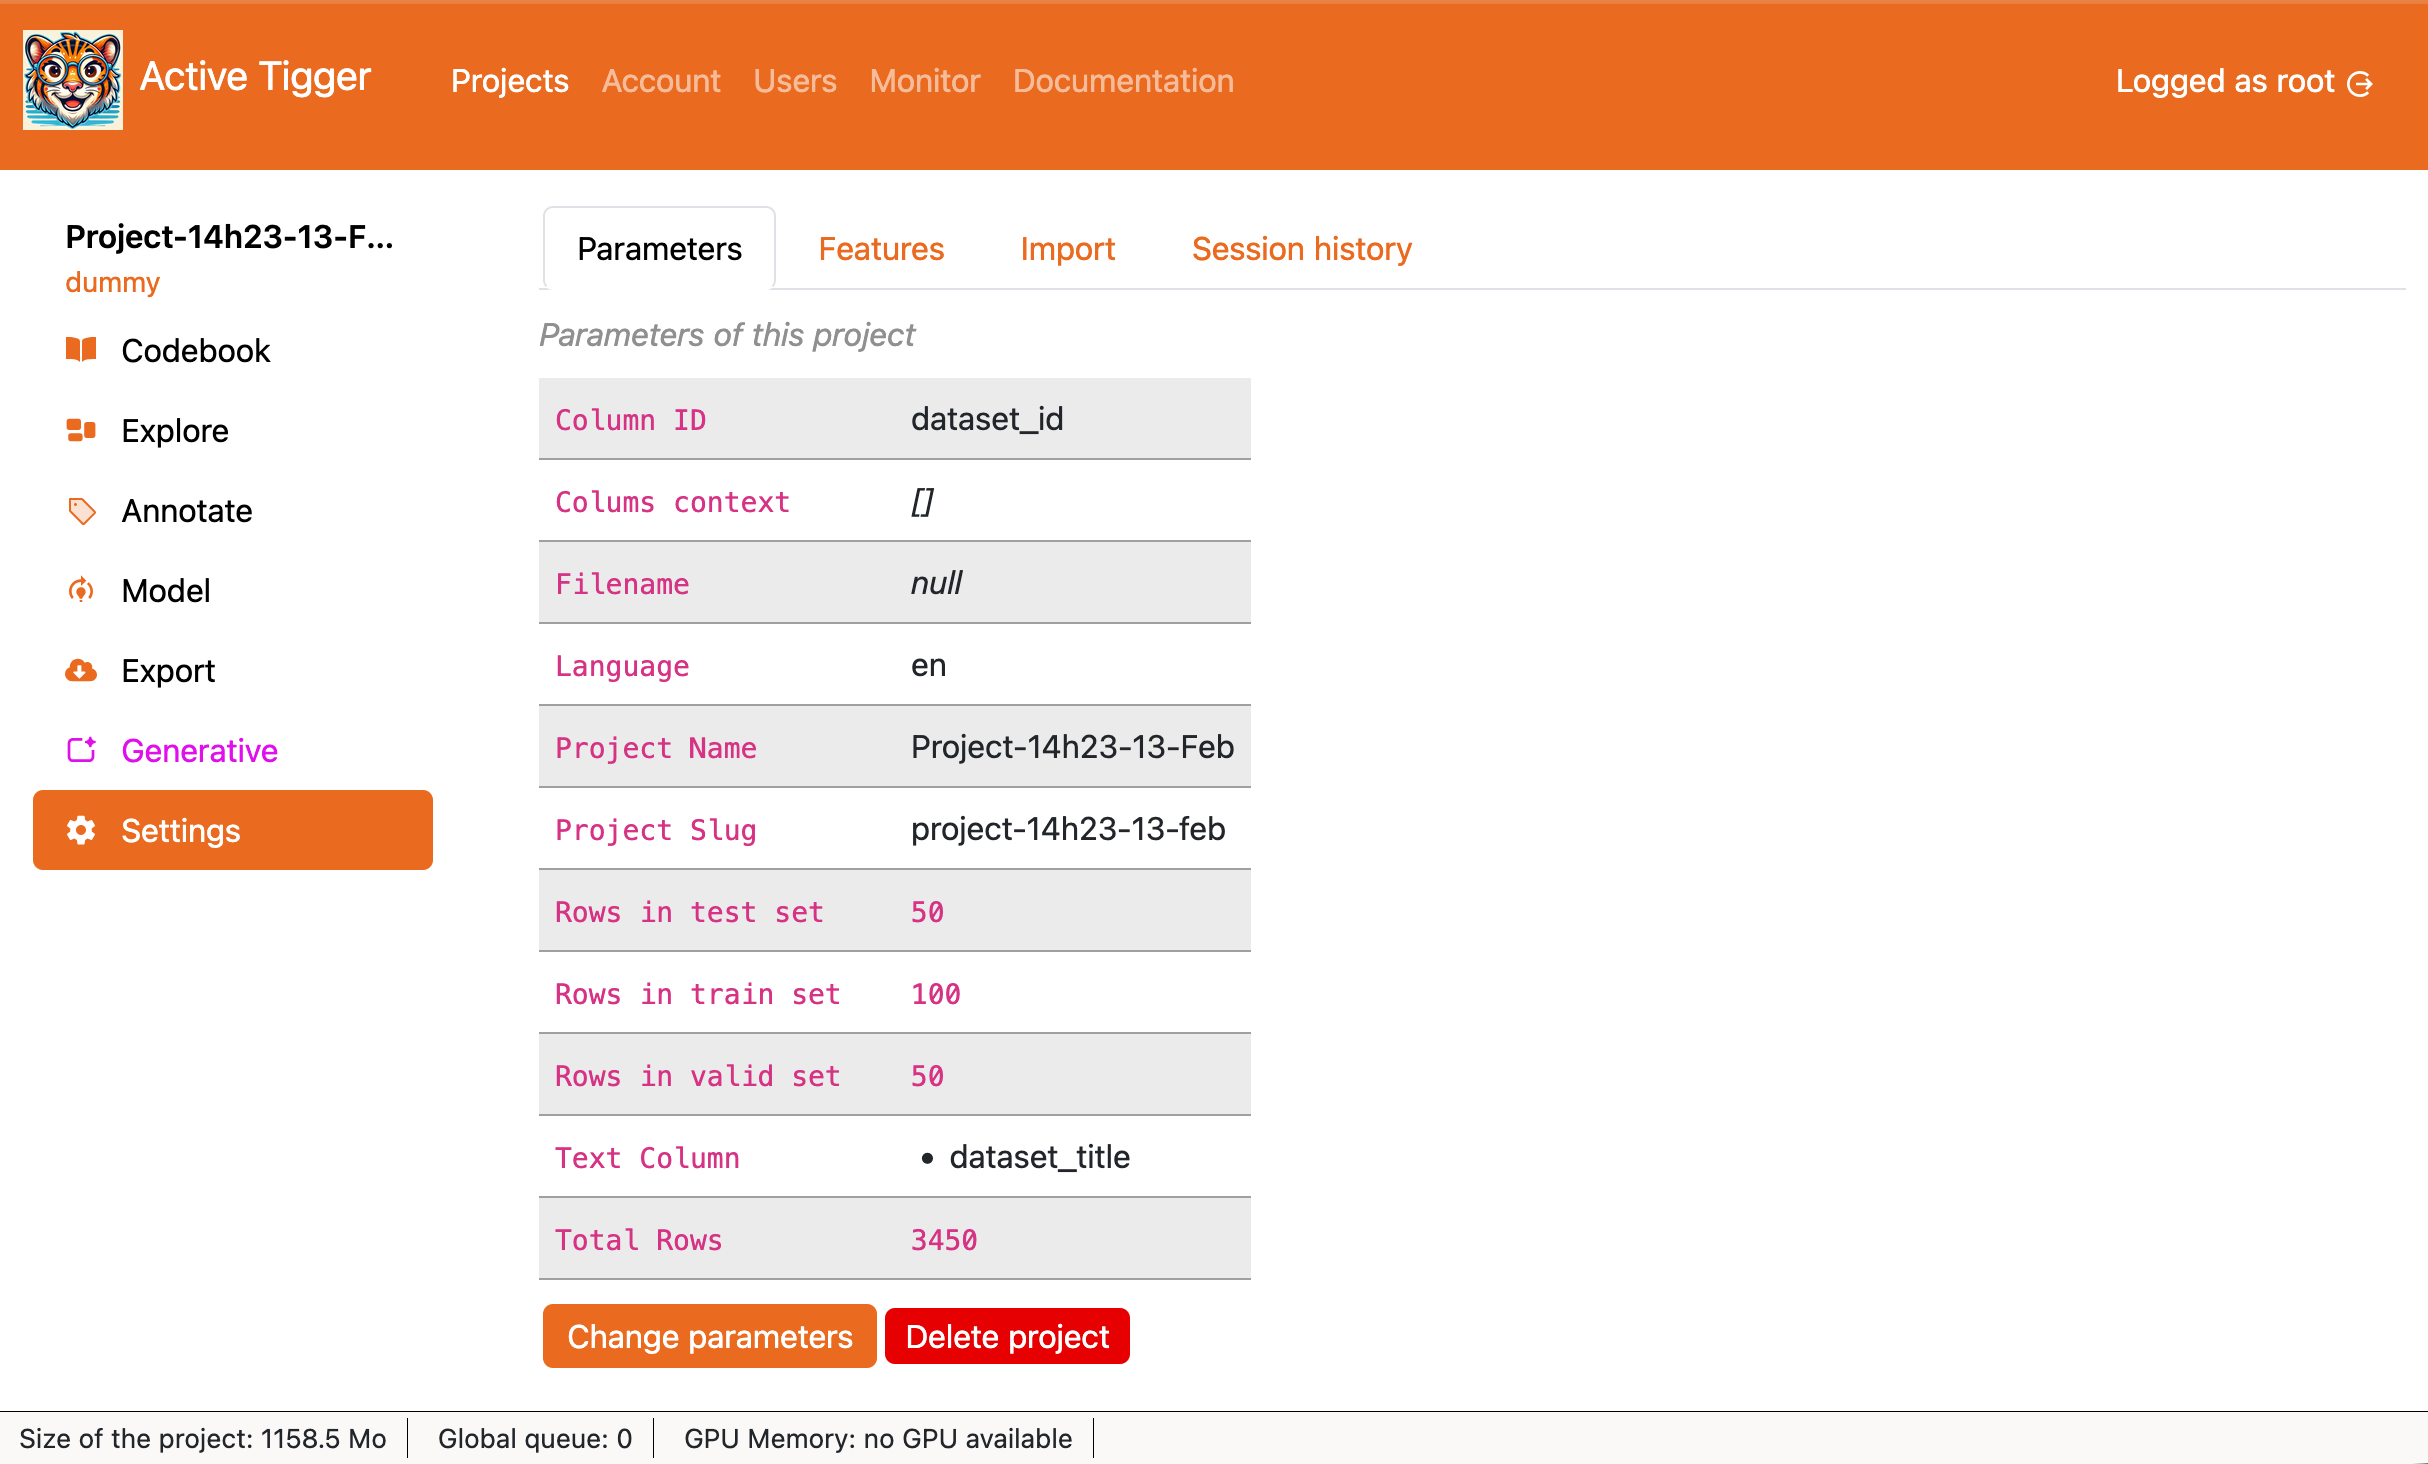
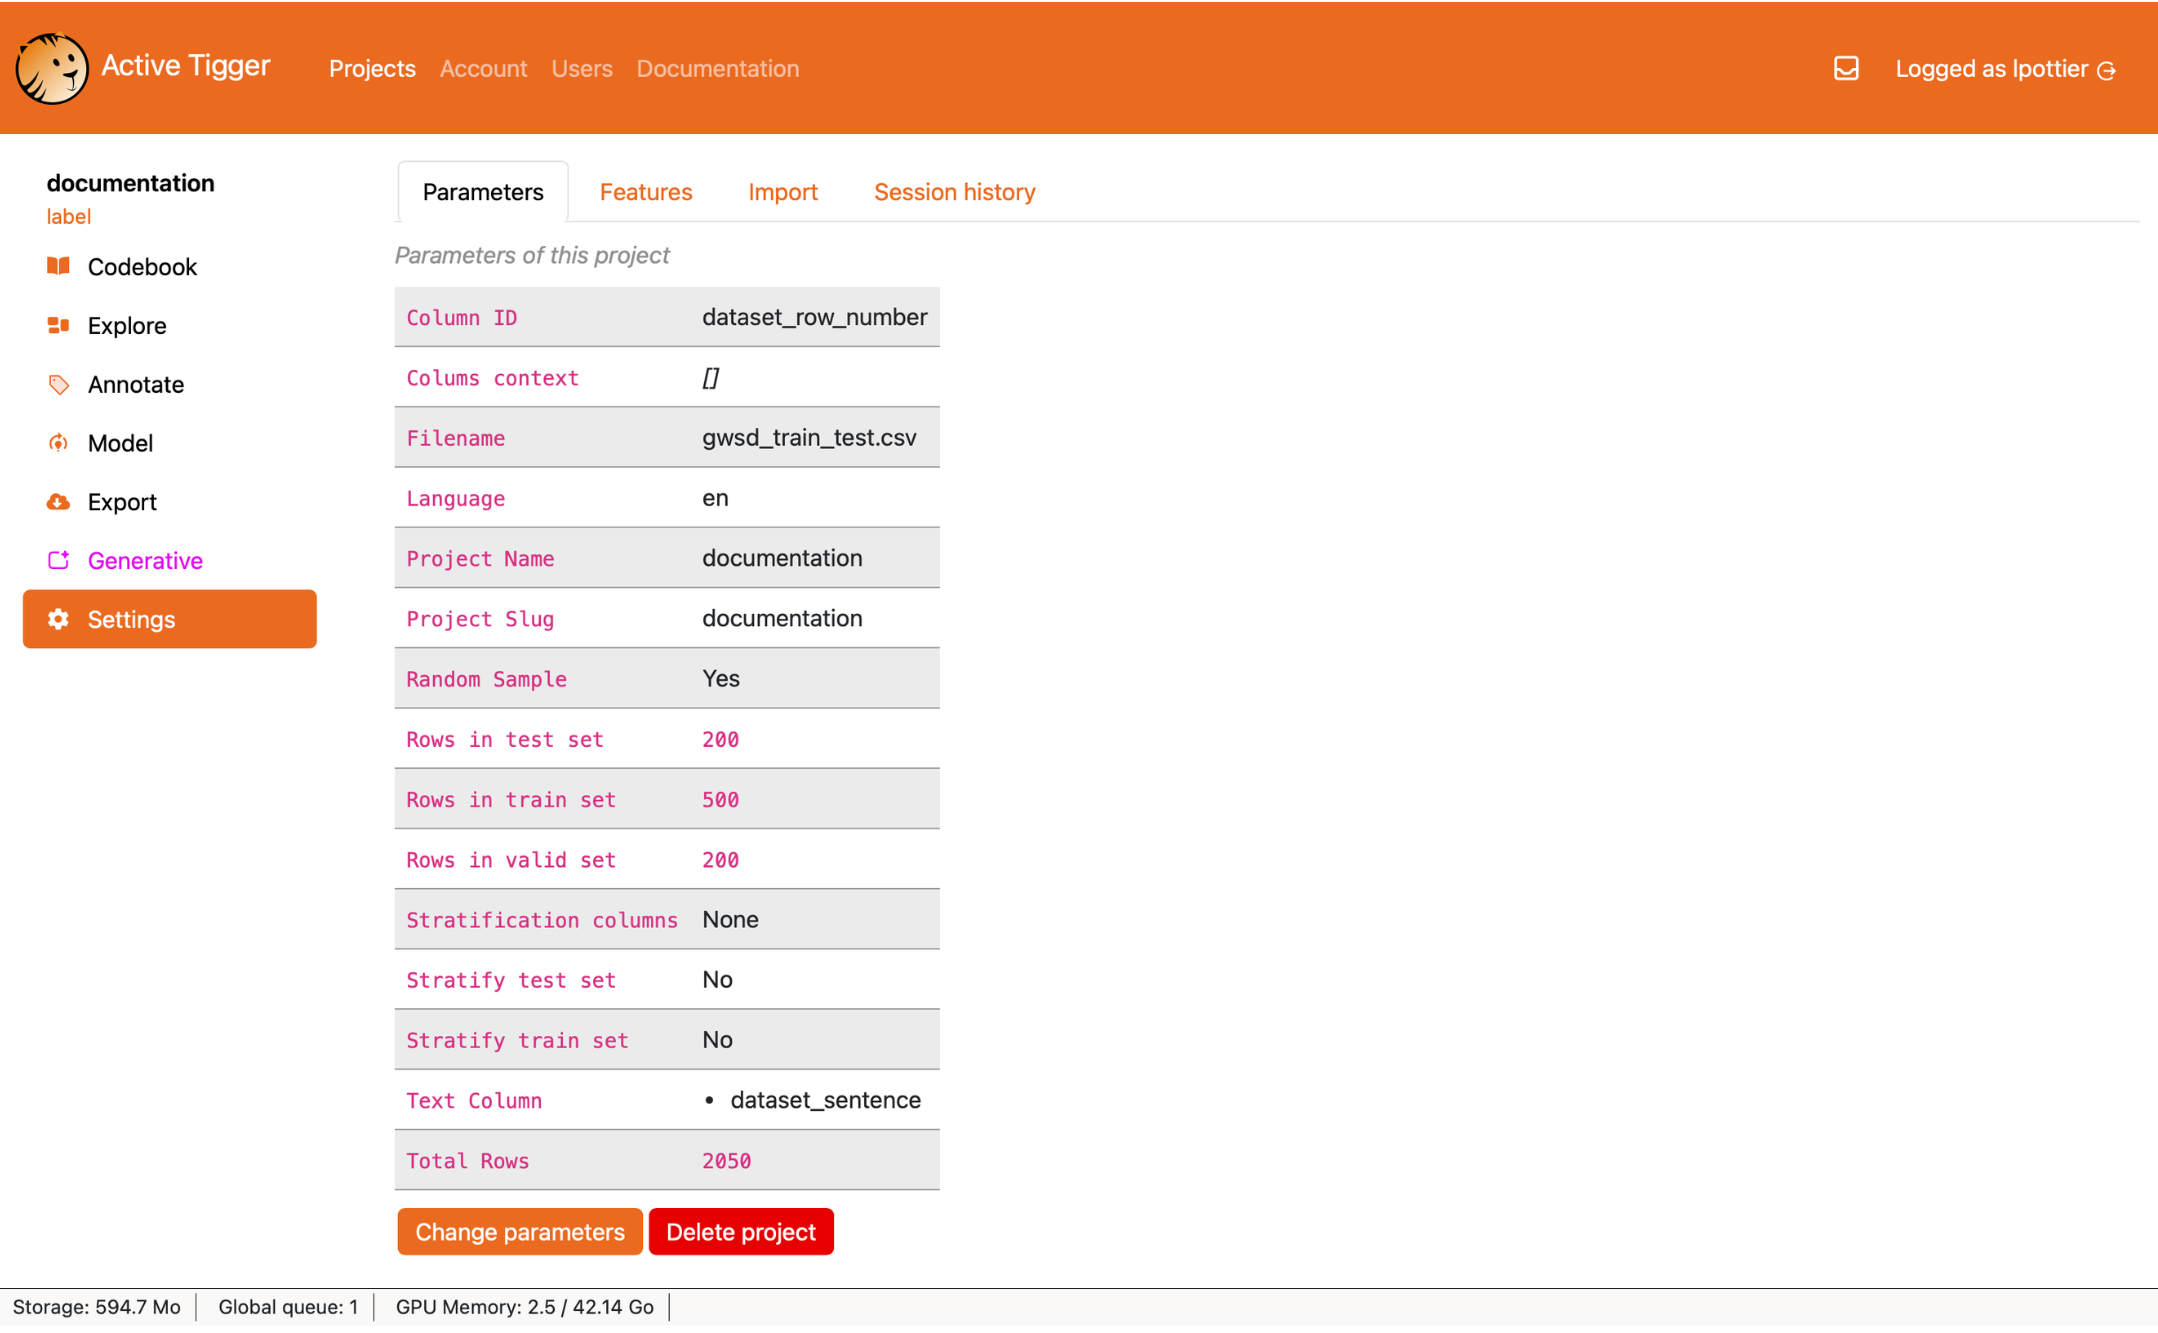
updated settings

diff --git a/docs/functionalities/settings.md b/docs/functionalities/settings.md
@@ -1,10 +1,10 @@
 # Settings page
 
-The settings page contains many tabs with **moderate** to **high impacts** on your project. We describe them on this page.
+The Settings page contains many tabs with **moderate** to **high impacts** on your project. 
 
 ## Parameters
 
-This page displays the parameters of the project and allows editing or deleting the project. For instance, you can *change its name* (but not its id).
+This tab displays the parameters of the project and allows editing of some parameters or deletion of the project. 
 
 ![](../img/functionalities/parameters.png)
 
@@ -14,38 +14,48 @@ This page displays the parameters of the project and allows editing or deleting 
     - <span class="parameter">Language of the corpus</span>: [see Project Creation page](./project-creation.md#primary-parameters)
     - <span class="parameter">Column(s) for contextual information</span>: [see Project Creation page](./project-creation.md#primary-parameters)
     - <span class="parameter">Add N elements in the train set</span>: Pick new elements from the dataset uploaded. *This action ignores stratification*.
-- <span class="action red-danger">Delete project</span> to delete the project, annotations and models. **There is no going back.**
 
 !!! note
     
-    It is not made possible to manage the size of the sets and move elements around. Read more [here](../faq/faq.md#why-cant-i-change-the-size-of-my-sets-on-the-go)
+    It is not possible to directly add elements to the test and validation sets. However, you can drop them and import news ones in the Import tab (learn more [in the FAQ](../faq/faq.md#can-i-add-a-test-set-or-validation-set-after-creating-the-project-if-i-havent-already) and get instructions [below](./settings.md#import)). 
+
+- <span class="action red-danger">Delete project</span> to delete the project, including annotations and models. 
+
+!!! warning
+
+    Deleting the project is **irreversible**. **It cannot be undone**. 
 
 ## Features
 
 Displays the available features and their parameters. 
 
+![](../img/functionalities/features.png)
+
 - <span class="action primary">Add a new feature</span> to compute new features ([more details on the available features modes](../conceptualizing/general.md#representing-texts-with-features)).
-    - if using **embeddings**:
+    - if using **sentence or BERT embeddings**:
         - <span class="parameter">Feature name</span>
-        - <span class="parameter">Model to use</span>
-        - <span class="parameter">Context window size</span>: The number of token per entry. After tokenization each input is truncated/padded to match this size.
+        - <span class="parameter secondary">Model to use</span>
+        - <span class="parameter secondary">Pooling</span> for BERT models: average all token embeddings (mean) or use the CLS token's only. 
+        - <span class="parameter secondary">Max length tokens</span>: the number of token per entry (context window size). After tokenization each input is truncated/padded to match this size.
+        - <span class="parameter secondary">Batch size</span>: number of entries that the model keeps in memory at once.  
     - if using **fasttext** (See the [Features concept](../conceptualizing/general.md#representing-texts-with-features)):
         - <span class="parameter">Feature name</span>
-        - <span class="parameter">Model to use</span>
+        - <span class="parameter secondary">Model to use</span>
     - if using **dfm**: Using `CountVectorizer`
         - <span class="parameter">Feature name</span>
-        - <span class="parameter">TF-IDF</span>: if set to True, applies TF-IDF.
-        - <span class="parameter">n-grams</span>: the size of n-grams to account for.
-        - <span class="parameter">min term freq</span>: the minimum frequency for an n-gram to be included in the vocabulary.
-        - <span class="parameter">max term freq</span>: the maximum frequency for an n-gram to be included in the vocabulary.
-        - <span class="parameter">Norm</span>: if set to True, normalize the features at the end
-        - <span class="parameter">Log</span>: if set to True, apply logarithm function to the features.
+        - <span class="parameter secondary">TF-IDF</span>: if set to True, applies TF-IDF.
+        - <span class="parameter secondary">N-grams</span>: the size of n-grams to account for.
+        - <span class="parameter secondary">Min term freq</span>: the minimum frequency for an n-gram to be included in the vocabulary.
+        - <span class="parameter secondary">Max term freq</span>: the maximum frequency for an n-gram to be included in the vocabulary.
+        - <span class="parameter secondary">Norm</span>: if set to True, normalize the features at the end
+        - <span class="parameter secondary">Log</span>: if set to True, apply logarithm function to the features.
     - if using **regex**: creates a boolean feature indicating whether the regex query is found in the text input
         - <span class="parameter">Feature name</span>
-        - <span class="parameter">Regex query</span>
+        - <span class="action input">Regex query</span>
     - if using **dataset**: imports from a column in the original dataset
         - <span class="parameter">Column to use</span>
         - <span class="parameter">Type of the feature</span>: either numerical or categorical.
+    - if using **import**: import a pre-computed feature in CSV, XLSX or Parquet format. The file must contain one row per project element, matched on the project's ID. Only numeric columns can be imported.
 
 Features can be downloaded from the [Export page](./export.md#features).
 
@@ -55,7 +65,7 @@ The import tab allows you to import data for the current process outside of the 
 
 ![](../img/functionalities/import.png)
 
-- **Import annotations**: import the annotations for the text inputs in the train dataset. The IDs must match. If the labels differ, new labels will be created. If annotations already exist, they will be overwritten.
+- **Import annotations**: import annotations for existing elements in the train dataset. The IDs must match with the IDs in your train set. If the labels differ, new labels will be created. **If annotations already exist, they will be overwritten.**
     - <span class="parameter">File to upload</span>: Parquet, CSV or XLSX file, limit defined by the administrator.
     - <span class="parameter">Column for ID</span>: column from the loaded dataset that must match the external IDs from the current text inputs.
     - <span class="parameter">Column for annotations</span>: column from the loaded dataset that contains the annotations to import.
@@ -67,5 +77,9 @@ The import tab allows you to import data for the current process outside of the 
         - <span class="parameter">File to upload</span>: Parquet, CSV or XLSX file, limit defined by the administrator.
         - <span class="parameter">ID column</span>: index to identify each element in the treatment ; either from an existing column or row number. If the chosen index is not unique, an internal index is created different from the external index.
         - <span class="parameter">Text column(s)</span>: The column(s) to use as text input. If several columns are selected, content of the columns will be concatenated with two linebreaks. 
-        - <span class="parameter">Column(s) for existing annotations</span>: Load existing annotations. If labels are not found in the current scheme, they will be ignored.
-        - <span class="parameter">Number of elements</span>: Number of rows 
+        - <span class="parameter">Column(s) for existing annotations (optional)</span>: Load existing annotations. If labels are not found in the current scheme, they will be ignored.
+        - <span class="parameter">Number of elements</span>: number of rows in the set. 
+
+## Session history 
+
+The Session history tab shows the last 100 actions you performed in the project. 
